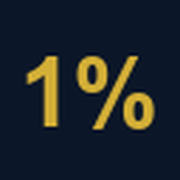
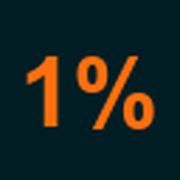
Volta às cores originais do Corretor 1% (laranja #FF6F0F e #001D23)

Changed region(s): [[0.5, 0.3056, 0.8611, 0.7222], [0.1389, 0.3056, 0.3333, 0.7222], [0.4167, 0.3056, 0.6111, 0.5278]]

diff --git a/assets/css/style.css b/assets/css/style.css
@@ -1,13 +1,14 @@
 :root {
-  --navy: #0b1628;
-  --navy-2: #13223b;
-  --ouro: #d4af37;
-  --ouro-escuro: #a8871f;
+  /* Cores do site original Corretor 1%: laranja #FF6F0F, escuro #001D23, pêssego #FFF0E6 */
+  --navy: #001D23;
+  --navy-2: #0a2c34;
+  --ouro: #FF6F0F;
+  --ouro-escuro: #c2510a;
   --texto: #1d2533;
   --texto-suave: #586174;
   --fundo: #ffffff;
-  --fundo-2: #f5f3ee;
-  --borda: #e3dfd4;
+  --fundo-2: #FFF0E6;
+  --borda: #f3dccb;
   --raio: 10px;
   --largura: 1140px;
   --serif: Georgia, 'Times New Roman', serif;
@@ -33,7 +34,7 @@ p { margin: 0 0 1em; }
 .pular:focus { left: 12px; top: 12px; z-index: 100; background: #fff; padding: 8px 12px; }
 
 /* Cabeçalho */
-.topo { background: var(--navy); position: sticky; top: 0; z-index: 50; border-bottom: 1px solid rgba(212,175,55,.25); }
+.topo { background: var(--navy); position: sticky; top: 0; z-index: 50; border-bottom: 1px solid rgba(255,111,15,.3); }
 .topo .container { display: flex; align-items: center; justify-content: space-between; min-height: 68px; }
 .marca { font-family: var(--serif); font-size: 1.6rem; font-weight: 700; color: #fff; text-decoration: none; letter-spacing: .5px; }
 .marca span { color: var(--ouro); }
@@ -52,7 +53,7 @@ p { margin: 0 0 1em; }
 
 /* Botões */
 .botao { display: inline-block; background: var(--ouro); color: var(--navy) !important; font-weight: 700; text-decoration: none; padding: 14px 26px; border-radius: 6px; border: 2px solid var(--ouro); transition: background .2s; }
-.botao:hover { background: #e3c25a; }
+.botao:hover { background: #ff8a3d; border-color: #ff8a3d; }
 .botao.vazado { background: transparent; color: #fff !important; border-color: rgba(255,255,255,.7); }
 .botao.vazado:hover { border-color: var(--ouro); color: var(--ouro) !important; }
 .botoes { display: flex; flex-wrap: wrap; gap: 12px; }
@@ -60,7 +61,7 @@ p { margin: 0 0 1em; }
 /* Hero */
 .hero { position: relative; color: #fff; background: var(--navy); overflow: hidden; }
 .hero picture, .hero picture img { position: absolute; inset: 0; width: 100%; height: 100%; object-fit: cover; object-position: center 40%; }
-.hero::after { content: ''; position: absolute; inset: 0; background: linear-gradient(90deg, rgba(11,22,40,.92) 0%, rgba(11,22,40,.72) 50%, rgba(11,22,40,.35) 100%); }
+.hero::after { content: ''; position: absolute; inset: 0; background: linear-gradient(90deg, rgba(0,29,35,.92) 0%, rgba(0,29,35,.72) 50%, rgba(0,29,35,.35) 100%); }
 .hero .container { position: relative; z-index: 1; padding-top: 110px; padding-bottom: 110px; }
 .hero h1 { color: #fff; max-width: 14em; }
 .hero .sub { font-size: clamp(1.05rem, 2vw, 1.3rem); max-width: 36em; color: #ecebe6; margin-bottom: 1.8em; }
@@ -71,7 +72,7 @@ p { margin: 0 0 1em; }
 .cabecalho-pagina h1 { color: #fff; }
 .cabecalho-pagina p { font-size: 1.15rem; max-width: 42em; margin: 0; }
 .trilha { font-size: .9rem; margin-bottom: 14px; color: #b9bcc6; }
-.trilha a { color: #d9cfa8; }
+.trilha a { color: #ffb27a; }
 
 /* Seções */
 .secao { padding: 72px 0; }
@@ -89,7 +90,7 @@ p { margin: 0 0 1em; }
 .cartao p { color: var(--texto-suave); }
 .cartao .mais { margin-top: auto; font-weight: 700; text-decoration: none; }
 .cartao .numero { font-family: var(--serif); font-size: 2rem; color: var(--ouro); line-height: 1; margin-bottom: 12px; }
-.secao.escura .cartao { background: var(--navy-2); border-color: rgba(212,175,55,.25); }
+.secao.escura .cartao { background: var(--navy-2); border-color: rgba(255,111,15,.3); }
 .secao.escura .cartao h3 { color: #fff; }
 .secao.escura .cartao p { color: #c9cbd2; }
 
@@ -121,12 +122,12 @@ p { margin: 0 0 1em; }
 .faq details p { margin: 12px 0 0; color: var(--texto-suave); }
 
 /* Rodapé */
-.rodape { background: #070f1c; color: #aeb3be; padding: 56px 0 28px; font-size: .95rem; }
+.rodape { background: #00141a; color: #aeb3be; padding: 56px 0 28px; font-size: .95rem; }
 .rodape .grade { margin-top: 0; }
 .rodape h2 { color: #fff; font-size: 1.1rem; margin: 0 0 12px; font-family: var(--sans); }
 .rodape ul { list-style: none; padding: 0; margin: 0; }
 .rodape li { margin-bottom: 6px; }
-.rodape a { color: #d9cfa8; text-decoration: none; }
+.rodape a { color: #ffb27a; text-decoration: none; }
 .rodape a:hover { color: var(--ouro); }
 .rodape .final { border-top: 1px solid rgba(255,255,255,.1); margin-top: 36px; padding-top: 20px; font-size: .88rem; }
 

diff --git a/mentoria/index.html b/mentoria/index.html
@@ -7,7 +7,7 @@
 <meta name="description" content="Mentoria individualizada para corretores de imóveis: diagnóstico dos seus números, plano de ação sob medida e acompanhamento para vender mais e aumentar as comissões.">
 <link rel="canonical" href="https://www.corretor1.com.br/mentoria/">
 <meta name="robots" content="index, follow, max-image-preview:large">
-<meta name="theme-color" content="#0b1628">
+<meta name="theme-color" content="#001D23">
 <meta property="og:locale" content="pt_BR">
 <meta property="og:type" content="website">
 <meta property="og:site_name" content="Corretor 1%">
@@ -18,7 +18,7 @@
 <meta name="twitter:card" content="summary_large_image">
 <link rel="icon" href="/assets/img/favicon.png" type="image/png">
 <link rel="apple-touch-icon" href="/assets/img/apple-touch-icon.png">
-<link rel="stylesheet" href="/assets/css/style.css?v=2026-10-01">
+<link rel="stylesheet" href="/assets/css/style.css?v=2026-10-01b">
 <script type="application/ld+json">{"@context":"https://schema.org","@type":"Organization","@id":"https://www.corretor1.com.br/#organizacao","name":"Corretor 1%","url":"https://www.corretor1.com.br/","logo":"https://www.corretor1.com.br/assets/img/apple-touch-icon.png","description":"Cursos, mentorias individualizadas e e-books para corretores de imóveis que querem alto desempenho em vendas e comissões.","email":"contato@corretor1.com.br"}</script>
 <script type="application/ld+json">{"@context":"https://schema.org","@type":"BreadcrumbList","itemListElement":[{"@type":"ListItem","position":1,"name":"Início","item":"https://www.corretor1.com.br/"},{"@type":"ListItem","position":2,"name":"Mentoria","item":"https://www.corretor1.com.br/mentoria/"}]}</script>
 <script type="application/ld+json">{"@context":"https://schema.org","@type":"FAQPage","mainEntity":[{"@type":"Question","name":"A mentoria é individual?","acceptedAnswer":{"@type":"Answer","text":"Sim. A mentoria Corretor 1% é individualizada: o plano é construído a partir dos seus números, do seu nicho e da sua rotina."}},{"@type":"Question","name":"Serve para quem está começando?","acceptedAnswer":{"@type":"Answer","text":"Sim. Para quem está começando, o foco é estruturar nicho, rotina e captação desde cedo, evitando os erros que mais atrasam a carreira."}},{"@type":"Question","name":"Preciso ter CRECI?","acceptedAnswer":{"@type":"Answer","text":"Para intermediar negócios, sim, porque a profissão é regulamentada. Se você ainda está em formação, a mentoria pode ajudar a planejar a entrada no mercado."}},{"@type":"Question","name":"Como faço para participar?","acceptedAnswer":{"@type":"Answer","text":"Entre em contato pelo botão desta página. Fazemos uma conversa inicial para entender o seu momento e apresentar o formato e o investimento."}}]}</script>
@@ -94,6 +94,6 @@
     </div>
   </div>
 </footer>
-<script src="/assets/js/site.js?v=2026-10-01" defer></script>
+<script src="/assets/js/site.js?v=2026-10-01b" defer></script>
 </body>
 </html>

diff --git a/blog/rotina-do-corretor-de-alta-performance/index.html b/blog/rotina-do-corretor-de-alta-performance/index.html
@@ -7,7 +7,7 @@
 <meta name="description" content="Sem chefe e sem horário fixo, a rotina decide o resultado do corretor. Veja um modelo de semana com prospecção, atendimento, captação e estudo.">
 <link rel="canonical" href="https://www.corretor1.com.br/blog/rotina-do-corretor-de-alta-performance/">
 <meta name="robots" content="index, follow, max-image-preview:large">
-<meta name="theme-color" content="#0b1628">
+<meta name="theme-color" content="#001D23">
 <meta property="og:locale" content="pt_BR">
 <meta property="og:type" content="article">
 <meta property="og:site_name" content="Corretor 1%">
@@ -18,7 +18,7 @@
 <meta name="twitter:card" content="summary_large_image">
 <link rel="icon" href="/assets/img/favicon.png" type="image/png">
 <link rel="apple-touch-icon" href="/assets/img/apple-touch-icon.png">
-<link rel="stylesheet" href="/assets/css/style.css?v=2026-10-01">
+<link rel="stylesheet" href="/assets/css/style.css?v=2026-10-01b">
 <script type="application/ld+json">{"@context":"https://schema.org","@type":"BlogPosting","headline":"Rotina do corretor de alta performance: como organizar a semana para vender mais","description":"Sem chefe e sem horário fixo, a rotina decide o resultado do corretor. Veja um modelo de semana com prospecção, atendimento, captação e estudo.","datePublished":"2026-10-01","dateModified":"2026-10-01","inLanguage":"pt-BR","mainEntityOfPage":"https://www.corretor1.com.br/blog/rotina-do-corretor-de-alta-performance/","image":"https://www.corretor1.com.br/assets/img/og-corretor1.jpg","author":{"@id":"https://www.corretor1.com.br/#organizacao"},"publisher":{"@id":"https://www.corretor1.com.br/#organizacao"}}</script>
 <script type="application/ld+json">{"@context":"https://schema.org","@type":"Organization","@id":"https://www.corretor1.com.br/#organizacao","name":"Corretor 1%","url":"https://www.corretor1.com.br/","logo":"https://www.corretor1.com.br/assets/img/apple-touch-icon.png","description":"Cursos, mentorias individualizadas e e-books para corretores de imóveis que querem alto desempenho em vendas e comissões.","email":"contato@corretor1.com.br"}</script>
 <script type="application/ld+json">{"@context":"https://schema.org","@type":"BreadcrumbList","itemListElement":[{"@type":"ListItem","position":1,"name":"Início","item":"https://www.corretor1.com.br/"},{"@type":"ListItem","position":2,"name":"Blog","item":"https://www.corretor1.com.br/blog/"},{"@type":"ListItem","position":3,"name":"Rotina do corretor de alta performance: como organizar a semana para vender mais","item":"https://www.corretor1.com.br/blog/rotina-do-corretor-de-alta-performance/"}]}</script>
@@ -129,6 +129,6 @@
     </div>
   </div>
 </footer>
-<script src="/assets/js/site.js?v=2026-10-01" defer></script>
+<script src="/assets/js/site.js?v=2026-10-01b" defer></script>
 </body>
 </html>

diff --git a/blog/comissao-de-corretor-de-imoveis/index.html b/blog/comissao-de-corretor-de-imoveis/index.html
@@ -7,7 +7,7 @@
 <meta name="description" content="Entenda como funciona a comissão de corretagem, o que diz o Código Civil, como são as tabelas de referência e como negociar sem perder valor.">
 <link rel="canonical" href="https://www.corretor1.com.br/blog/comissao-de-corretor-de-imoveis/">
 <meta name="robots" content="index, follow, max-image-preview:large">
-<meta name="theme-color" content="#0b1628">
+<meta name="theme-color" content="#001D23">
 <meta property="og:locale" content="pt_BR">
 <meta property="og:type" content="article">
 <meta property="og:site_name" content="Corretor 1%">
@@ -18,7 +18,7 @@
 <meta name="twitter:card" content="summary_large_image">
 <link rel="icon" href="/assets/img/favicon.png" type="image/png">
 <link rel="apple-touch-icon" href="/assets/img/apple-touch-icon.png">
-<link rel="stylesheet" href="/assets/css/style.css?v=2026-10-01">
+<link rel="stylesheet" href="/assets/css/style.css?v=2026-10-01b">
 <script type="application/ld+json">{"@context":"https://schema.org","@type":"BlogPosting","headline":"Comissão de corretor de imóveis: quanto é, quem paga e como proteger a sua","description":"Entenda como funciona a comissão de corretagem, o que diz o Código Civil, como são as tabelas de referência e como negociar sem perder valor.","datePublished":"2026-10-01","dateModified":"2026-10-01","inLanguage":"pt-BR","mainEntityOfPage":"https://www.corretor1.com.br/blog/comissao-de-corretor-de-imoveis/","image":"https://www.corretor1.com.br/assets/img/og-corretor1.jpg","author":{"@id":"https://www.corretor1.com.br/#organizacao"},"publisher":{"@id":"https://www.corretor1.com.br/#organizacao"}}</script>
 <script type="application/ld+json">{"@context":"https://schema.org","@type":"Organization","@id":"https://www.corretor1.com.br/#organizacao","name":"Corretor 1%","url":"https://www.corretor1.com.br/","logo":"https://www.corretor1.com.br/assets/img/apple-touch-icon.png","description":"Cursos, mentorias individualizadas e e-books para corretores de imóveis que querem alto desempenho em vendas e comissões.","email":"contato@corretor1.com.br"}</script>
 <script type="application/ld+json">{"@context":"https://schema.org","@type":"BreadcrumbList","itemListElement":[{"@type":"ListItem","position":1,"name":"Início","item":"https://www.corretor1.com.br/"},{"@type":"ListItem","position":2,"name":"Blog","item":"https://www.corretor1.com.br/blog/"},{"@type":"ListItem","position":3,"name":"Comissão de corretor de imóveis: quanto é, quem paga e como proteger a sua","item":"https://www.corretor1.com.br/blog/comissao-de-corretor-de-imoveis/"}]}</script>
@@ -120,6 +120,6 @@
     </div>
   </div>
 </footer>
-<script src="/assets/js/site.js?v=2026-10-01" defer></script>
+<script src="/assets/js/site.js?v=2026-10-01b" defer></script>
 </body>
 </html>

diff --git a/blog/marketing-para-corretor-de-imoveis/index.html b/blog/marketing-para-corretor-de-imoveis/index.html
@@ -7,7 +7,7 @@
 <meta name="description" content="Guia prático de marketing para corretores: posicionamento, Instagram, anúncios de imóveis, fotos, conteúdo e regras de publicidade do CRECI.">
 <link rel="canonical" href="https://www.corretor1.com.br/blog/marketing-para-corretor-de-imoveis/">
 <meta name="robots" content="index, follow, max-image-preview:large">
-<meta name="theme-color" content="#0b1628">
+<meta name="theme-color" content="#001D23">
 <meta property="og:locale" content="pt_BR">
 <meta property="og:type" content="article">
 <meta property="og:site_name" content="Corretor 1%">
@@ -18,7 +18,7 @@
 <meta name="twitter:card" content="summary_large_image">
 <link rel="icon" href="/assets/img/favicon.png" type="image/png">
 <link rel="apple-touch-icon" href="/assets/img/apple-touch-icon.png">
-<link rel="stylesheet" href="/assets/css/style.css?v=2026-10-01">
+<link rel="stylesheet" href="/assets/css/style.css?v=2026-10-01b">
 <script type="application/ld+json">{"@context":"https://schema.org","@type":"BlogPosting","headline":"Marketing para corretor de imóveis: como ser lembrado e atrair clientes","description":"Guia prático de marketing para corretores: posicionamento, Instagram, anúncios de imóveis, fotos, conteúdo e regras de publicidade do CRECI.","datePublished":"2026-10-01","dateModified":"2026-10-01","inLanguage":"pt-BR","mainEntityOfPage":"https://www.corretor1.com.br/blog/marketing-para-corretor-de-imoveis/","image":"https://www.corretor1.com.br/assets/img/og-corretor1.jpg","author":{"@id":"https://www.corretor1.com.br/#organizacao"},"publisher":{"@id":"https://www.corretor1.com.br/#organizacao"}}</script>
 <script type="application/ld+json">{"@context":"https://schema.org","@type":"Organization","@id":"https://www.corretor1.com.br/#organizacao","name":"Corretor 1%","url":"https://www.corretor1.com.br/","logo":"https://www.corretor1.com.br/assets/img/apple-touch-icon.png","description":"Cursos, mentorias individualizadas e e-books para corretores de imóveis que querem alto desempenho em vendas e comissões.","email":"contato@corretor1.com.br"}</script>
 <script type="application/ld+json">{"@context":"https://schema.org","@type":"BreadcrumbList","itemListElement":[{"@type":"ListItem","position":1,"name":"Início","item":"https://www.corretor1.com.br/"},{"@type":"ListItem","position":2,"name":"Blog","item":"https://www.corretor1.com.br/blog/"},{"@type":"ListItem","position":3,"name":"Marketing para corretor de imóveis: como ser lembrado e atrair clientes","item":"https://www.corretor1.com.br/blog/marketing-para-corretor-de-imoveis/"}]}</script>
@@ -118,6 +118,6 @@
     </div>
   </div>
 </footer>
-<script src="/assets/js/site.js?v=2026-10-01" defer></script>
+<script src="/assets/js/site.js?v=2026-10-01b" defer></script>
 </body>
 </html>

diff --git a/blog/como-captar-imoveis/index.html b/blog/como-captar-imoveis/index.html
@@ -7,7 +7,7 @@
 <meta name="description" content="Captação é o que sustenta a carreira do corretor. Veja onde encontrar proprietários, como conduzir a primeira visita e como conquistar a exclusividade.">
 <link rel="canonical" href="https://www.corretor1.com.br/blog/como-captar-imoveis/">
 <meta name="robots" content="index, follow, max-image-preview:large">
-<meta name="theme-color" content="#0b1628">
+<meta name="theme-color" content="#001D23">
 <meta property="og:locale" content="pt_BR">
 <meta property="og:type" content="article">
 <meta property="og:site_name" content="Corretor 1%">
@@ -18,7 +18,7 @@
 <meta name="twitter:card" content="summary_large_image">
 <link rel="icon" href="/assets/img/favicon.png" type="image/png">
 <link rel="apple-touch-icon" href="/assets/img/apple-touch-icon.png">
-<link rel="stylesheet" href="/assets/css/style.css?v=2026-10-01">
+<link rel="stylesheet" href="/assets/css/style.css?v=2026-10-01b">
 <script type="application/ld+json">{"@context":"https://schema.org","@type":"BlogPosting","headline":"Como captar imóveis: estratégias práticas para conquistar boas exclusividades","description":"Captação é o que sustenta a carreira do corretor. Veja onde encontrar proprietários, como conduzir a primeira visita e como conquistar a exclusividade.","datePublished":"2026-10-01","dateModified":"2026-10-01","inLanguage":"pt-BR","mainEntityOfPage":"https://www.corretor1.com.br/blog/como-captar-imoveis/","image":"https://www.corretor1.com.br/assets/img/og-corretor1.jpg","author":{"@id":"https://www.corretor1.com.br/#organizacao"},"publisher":{"@id":"https://www.corretor1.com.br/#organizacao"}}</script>
 <script type="application/ld+json">{"@context":"https://schema.org","@type":"Organization","@id":"https://www.corretor1.com.br/#organizacao","name":"Corretor 1%","url":"https://www.corretor1.com.br/","logo":"https://www.corretor1.com.br/assets/img/apple-touch-icon.png","description":"Cursos, mentorias individualizadas e e-books para corretores de imóveis que querem alto desempenho em vendas e comissões.","email":"contato@corretor1.com.br"}</script>
 <script type="application/ld+json">{"@context":"https://schema.org","@type":"BreadcrumbList","itemListElement":[{"@type":"ListItem","position":1,"name":"Início","item":"https://www.corretor1.com.br/"},{"@type":"ListItem","position":2,"name":"Blog","item":"https://www.corretor1.com.br/blog/"},{"@type":"ListItem","position":3,"name":"Como captar imóveis: estratégias práticas para conquistar boas exclusividades","item":"https://www.corretor1.com.br/blog/como-captar-imoveis/"}]}</script>
@@ -126,6 +126,6 @@
     </div>
   </div>
 </footer>
-<script src="/assets/js/site.js?v=2026-10-01" defer></script>
+<script src="/assets/js/site.js?v=2026-10-01b" defer></script>
 </body>
 </html>

diff --git a/blog/como-vender-mais-imoveis/index.html b/blog/como-vender-mais-imoveis/index.html
@@ -7,7 +7,7 @@
 <meta name="description" content="Vender mais imóveis não depende de sorte. Veja como qualificar clientes, conduzir visitas, fazer follow-up e chegar ao fechamento com segurança.">
 <link rel="canonical" href="https://www.corretor1.com.br/blog/como-vender-mais-imoveis/">
 <meta name="robots" content="index, follow, max-image-preview:large">
-<meta name="theme-color" content="#0b1628">
+<meta name="theme-color" content="#001D23">
 <meta property="og:locale" content="pt_BR">
 <meta property="og:type" content="article">
 <meta property="og:site_name" content="Corretor 1%">
@@ -18,7 +18,7 @@
 <meta name="twitter:card" content="summary_large_image">
 <link rel="icon" href="/assets/img/favicon.png" type="image/png">
 <link rel="apple-touch-icon" href="/assets/img/apple-touch-icon.png">
-<link rel="stylesheet" href="/assets/css/style.css?v=2026-10-01">
+<link rel="stylesheet" href="/assets/css/style.css?v=2026-10-01b">
 <script type="application/ld+json">{"@context":"https://schema.org","@type":"BlogPosting","headline":"Como vender mais imóveis: o processo dos corretores que mais fecham negócios","description":"Vender mais imóveis não depende de sorte. Veja como qualificar clientes, conduzir visitas, fazer follow-up e chegar ao fechamento com segurança.","datePublished":"2026-10-01","dateModified":"2026-10-01","inLanguage":"pt-BR","mainEntityOfPage":"https://www.corretor1.com.br/blog/como-vender-mais-imoveis/","image":"https://www.corretor1.com.br/assets/img/og-corretor1.jpg","author":{"@id":"https://www.corretor1.com.br/#organizacao"},"publisher":{"@id":"https://www.corretor1.com.br/#organizacao"}}</script>
 <script type="application/ld+json">{"@context":"https://schema.org","@type":"Organization","@id":"https://www.corretor1.com.br/#organizacao","name":"Corretor 1%","url":"https://www.corretor1.com.br/","logo":"https://www.corretor1.com.br/assets/img/apple-touch-icon.png","description":"Cursos, mentorias individualizadas e e-books para corretores de imóveis que querem alto desempenho em vendas e comissões.","email":"contato@corretor1.com.br"}</script>
 <script type="application/ld+json">{"@context":"https://schema.org","@type":"BreadcrumbList","itemListElement":[{"@type":"ListItem","position":1,"name":"Início","item":"https://www.corretor1.com.br/"},{"@type":"ListItem","position":2,"name":"Blog","item":"https://www.corretor1.com.br/blog/"},{"@type":"ListItem","position":3,"name":"Como vender mais imóveis: o processo dos corretores que mais fecham negócios","item":"https://www.corretor1.com.br/blog/como-vender-mais-imoveis/"}]}</script>
@@ -124,6 +124,6 @@
     </div>
   </div>
 </footer>
-<script src="/assets/js/site.js?v=2026-10-01" defer></script>
+<script src="/assets/js/site.js?v=2026-10-01b" defer></script>
 </body>
 </html>

diff --git a/blog/como-ser-corretor-de-imoveis/index.html b/blog/como-ser-corretor-de-imoveis/index.html
@@ -7,7 +7,7 @@
 <meta name="description" content="Veja o que a lei exige para atuar como corretor de imóveis, como tirar o CRECI e o que fazer nos primeiros meses para entrar no mercado com o pé direito.">
 <link rel="canonical" href="https://www.corretor1.com.br/blog/como-ser-corretor-de-imoveis/">
 <meta name="robots" content="index, follow, max-image-preview:large">
-<meta name="theme-color" content="#0b1628">
+<meta name="theme-color" content="#001D23">
 <meta property="og:locale" content="pt_BR">
 <meta property="og:type" content="article">
 <meta property="og:site_name" content="Corretor 1%">
@@ -18,7 +18,7 @@
 <meta name="twitter:card" content="summary_large_image">
 <link rel="icon" href="/assets/img/favicon.png" type="image/png">
 <link rel="apple-touch-icon" href="/assets/img/apple-touch-icon.png">
-<link rel="stylesheet" href="/assets/css/style.css?v=2026-10-01">
+<link rel="stylesheet" href="/assets/css/style.css?v=2026-10-01b">
 <script type="application/ld+json">{"@context":"https://schema.org","@type":"BlogPosting","headline":"Como ser corretor de imóveis: do curso ao primeiro negócio","description":"Veja o que a lei exige para atuar como corretor de imóveis, como tirar o CRECI e o que fazer nos primeiros meses para entrar no mercado com o pé direito.","datePublished":"2026-10-01","dateModified":"2026-10-01","inLanguage":"pt-BR","mainEntityOfPage":"https://www.corretor1.com.br/blog/como-ser-corretor-de-imoveis/","image":"https://www.corretor1.com.br/assets/img/og-corretor1.jpg","author":{"@id":"https://www.corretor1.com.br/#organizacao"},"publisher":{"@id":"https://www.corretor1.com.br/#organizacao"}}</script>
 <script type="application/ld+json">{"@context":"https://schema.org","@type":"Organization","@id":"https://www.corretor1.com.br/#organizacao","name":"Corretor 1%","url":"https://www.corretor1.com.br/","logo":"https://www.corretor1.com.br/assets/img/apple-touch-icon.png","description":"Cursos, mentorias individualizadas e e-books para corretores de imóveis que querem alto desempenho em vendas e comissões.","email":"contato@corretor1.com.br"}</script>
 <script type="application/ld+json">{"@context":"https://schema.org","@type":"BreadcrumbList","itemListElement":[{"@type":"ListItem","position":1,"name":"Início","item":"https://www.corretor1.com.br/"},{"@type":"ListItem","position":2,"name":"Blog","item":"https://www.corretor1.com.br/blog/"},{"@type":"ListItem","position":3,"name":"Como ser corretor de imóveis: do curso ao primeiro negócio","item":"https://www.corretor1.com.br/blog/como-ser-corretor-de-imoveis/"}]}</script>
@@ -122,6 +122,6 @@
     </div>
   </div>
 </footer>
-<script src="/assets/js/site.js?v=2026-10-01" defer></script>
+<script src="/assets/js/site.js?v=2026-10-01b" defer></script>
 </body>
 </html>

diff --git a/cursos/index.html b/cursos/index.html
@@ -7,7 +7,7 @@
 <meta name="description" content="Cursos práticos para corretores de imóveis: captação e exclusividade, atendimento e fechamento, comissão, marketing imobiliário e rotina de alta performance.">
 <link rel="canonical" href="https://www.corretor1.com.br/cursos/">
 <meta name="robots" content="index, follow, max-image-preview:large">
-<meta name="theme-color" content="#0b1628">
+<meta name="theme-color" content="#001D23">
 <meta property="og:locale" content="pt_BR">
 <meta property="og:type" content="website">
 <meta property="og:site_name" content="Corretor 1%">
@@ -18,7 +18,7 @@
 <meta name="twitter:card" content="summary_large_image">
 <link rel="icon" href="/assets/img/favicon.png" type="image/png">
 <link rel="apple-touch-icon" href="/assets/img/apple-touch-icon.png">
-<link rel="stylesheet" href="/assets/css/style.css?v=2026-10-01">
+<link rel="stylesheet" href="/assets/css/style.css?v=2026-10-01b">
 <script type="application/ld+json">{"@context":"https://schema.org","@type":"Organization","@id":"https://www.corretor1.com.br/#organizacao","name":"Corretor 1%","url":"https://www.corretor1.com.br/","logo":"https://www.corretor1.com.br/assets/img/apple-touch-icon.png","description":"Cursos, mentorias individualizadas e e-books para corretores de imóveis que querem alto desempenho em vendas e comissões.","email":"contato@corretor1.com.br"}</script>
 <script type="application/ld+json">{"@context":"https://schema.org","@type":"BreadcrumbList","itemListElement":[{"@type":"ListItem","position":1,"name":"Início","item":"https://www.corretor1.com.br/"},{"@type":"ListItem","position":2,"name":"Cursos","item":"https://www.corretor1.com.br/cursos/"}]}</script>
 </head>
@@ -83,6 +83,6 @@
     </div>
   </div>
 </footer>
-<script src="/assets/js/site.js?v=2026-10-01" defer></script>
+<script src="/assets/js/site.js?v=2026-10-01b" defer></script>
 </body>
 </html>

diff --git a/ebooks/index.html b/ebooks/index.html
@@ -7,7 +7,7 @@
 <meta name="description" content="E-books Corretor 1% para corretores de imóveis: captação, negociação, comissão, marketing e rotina de alta performance, com roteiros e modelos práticos.">
 <link rel="canonical" href="https://www.corretor1.com.br/ebooks/">
 <meta name="robots" content="index, follow, max-image-preview:large">
-<meta name="theme-color" content="#0b1628">
+<meta name="theme-color" content="#001D23">
 <meta property="og:locale" content="pt_BR">
 <meta property="og:type" content="website">
 <meta property="og:site_name" content="Corretor 1%">
@@ -18,7 +18,7 @@
 <meta name="twitter:card" content="summary_large_image">
 <link rel="icon" href="/assets/img/favicon.png" type="image/png">
 <link rel="apple-touch-icon" href="/assets/img/apple-touch-icon.png">
-<link rel="stylesheet" href="/assets/css/style.css?v=2026-10-01">
+<link rel="stylesheet" href="/assets/css/style.css?v=2026-10-01b">
 <script type="application/ld+json">{"@context":"https://schema.org","@type":"Organization","@id":"https://www.corretor1.com.br/#organizacao","name":"Corretor 1%","url":"https://www.corretor1.com.br/","logo":"https://www.corretor1.com.br/assets/img/apple-touch-icon.png","description":"Cursos, mentorias individualizadas e e-books para corretores de imóveis que querem alto desempenho em vendas e comissões.","email":"contato@corretor1.com.br"}</script>
 <script type="application/ld+json">{"@context":"https://schema.org","@type":"BreadcrumbList","itemListElement":[{"@type":"ListItem","position":1,"name":"Início","item":"https://www.corretor1.com.br/"},{"@type":"ListItem","position":2,"name":"E-books","item":"https://www.corretor1.com.br/ebooks/"}]}</script>
 </head>
@@ -73,6 +73,6 @@
     </div>
   </div>
 </footer>
-<script src="/assets/js/site.js?v=2026-10-01" defer></script>
+<script src="/assets/js/site.js?v=2026-10-01b" defer></script>
 </body>
 </html>

diff --git a/sobre/index.html b/sobre/index.html
@@ -7,7 +7,7 @@
 <meta name="description" content="Conheça o Método Corretor 1%: posicionamento, captação, conversão, rotina e reputação, os pilares dos corretores de imóveis que mais vendem.">
 <link rel="canonical" href="https://www.corretor1.com.br/sobre/">
 <meta name="robots" content="index, follow, max-image-preview:large">
-<meta name="theme-color" content="#0b1628">
+<meta name="theme-color" content="#001D23">
 <meta property="og:locale" content="pt_BR">
 <meta property="og:type" content="website">
 <meta property="og:site_name" content="Corretor 1%">
@@ -18,7 +18,7 @@
 <meta name="twitter:card" content="summary_large_image">
 <link rel="icon" href="/assets/img/favicon.png" type="image/png">
 <link rel="apple-touch-icon" href="/assets/img/apple-touch-icon.png">
-<link rel="stylesheet" href="/assets/css/style.css?v=2026-10-01">
+<link rel="stylesheet" href="/assets/css/style.css?v=2026-10-01b">
 <script type="application/ld+json">{"@context":"https://schema.org","@type":"Organization","@id":"https://www.corretor1.com.br/#organizacao","name":"Corretor 1%","url":"https://www.corretor1.com.br/","logo":"https://www.corretor1.com.br/assets/img/apple-touch-icon.png","description":"Cursos, mentorias individualizadas e e-books para corretores de imóveis que querem alto desempenho em vendas e comissões.","email":"contato@corretor1.com.br"}</script>
 <script type="application/ld+json">{"@context":"https://schema.org","@type":"BreadcrumbList","itemListElement":[{"@type":"ListItem","position":1,"name":"Início","item":"https://www.corretor1.com.br/"},{"@type":"ListItem","position":2,"name":"O Método","item":"https://www.corretor1.com.br/sobre/"}]}</script>
 </head>
@@ -84,6 +84,6 @@
     </div>
   </div>
 </footer>
-<script src="/assets/js/site.js?v=2026-10-01" defer></script>
+<script src="/assets/js/site.js?v=2026-10-01b" defer></script>
 </body>
 </html>

diff --git a/blog/index.html b/blog/index.html
@@ -7,7 +7,7 @@
 <meta name="description" content="Artigos para corretores de imóveis sobre carreira, CRECI, comissão, captação, vendas, marketing imobiliário e rotina de alta performance.">
 <link rel="canonical" href="https://www.corretor1.com.br/blog/">
 <meta name="robots" content="index, follow, max-image-preview:large">
-<meta name="theme-color" content="#0b1628">
+<meta name="theme-color" content="#001D23">
 <meta property="og:locale" content="pt_BR">
 <meta property="og:type" content="website">
 <meta property="og:site_name" content="Corretor 1%">
@@ -18,7 +18,7 @@
 <meta name="twitter:card" content="summary_large_image">
 <link rel="icon" href="/assets/img/favicon.png" type="image/png">
 <link rel="apple-touch-icon" href="/assets/img/apple-touch-icon.png">
-<link rel="stylesheet" href="/assets/css/style.css?v=2026-10-01">
+<link rel="stylesheet" href="/assets/css/style.css?v=2026-10-01b">
 <script type="application/ld+json">{"@context":"https://schema.org","@type":"Organization","@id":"https://www.corretor1.com.br/#organizacao","name":"Corretor 1%","url":"https://www.corretor1.com.br/","logo":"https://www.corretor1.com.br/assets/img/apple-touch-icon.png","description":"Cursos, mentorias individualizadas e e-books para corretores de imóveis que querem alto desempenho em vendas e comissões.","email":"contato@corretor1.com.br"}</script>
 <script type="application/ld+json">{"@context":"https://schema.org","@type":"BreadcrumbList","itemListElement":[{"@type":"ListItem","position":1,"name":"Início","item":"https://www.corretor1.com.br/"},{"@type":"ListItem","position":2,"name":"Blog","item":"https://www.corretor1.com.br/blog/"}]}</script>
 </head>
@@ -92,6 +92,6 @@
     </div>
   </div>
 </footer>
-<script src="/assets/js/site.js?v=2026-10-01" defer></script>
+<script src="/assets/js/site.js?v=2026-10-01b" defer></script>
 </body>
 </html>
